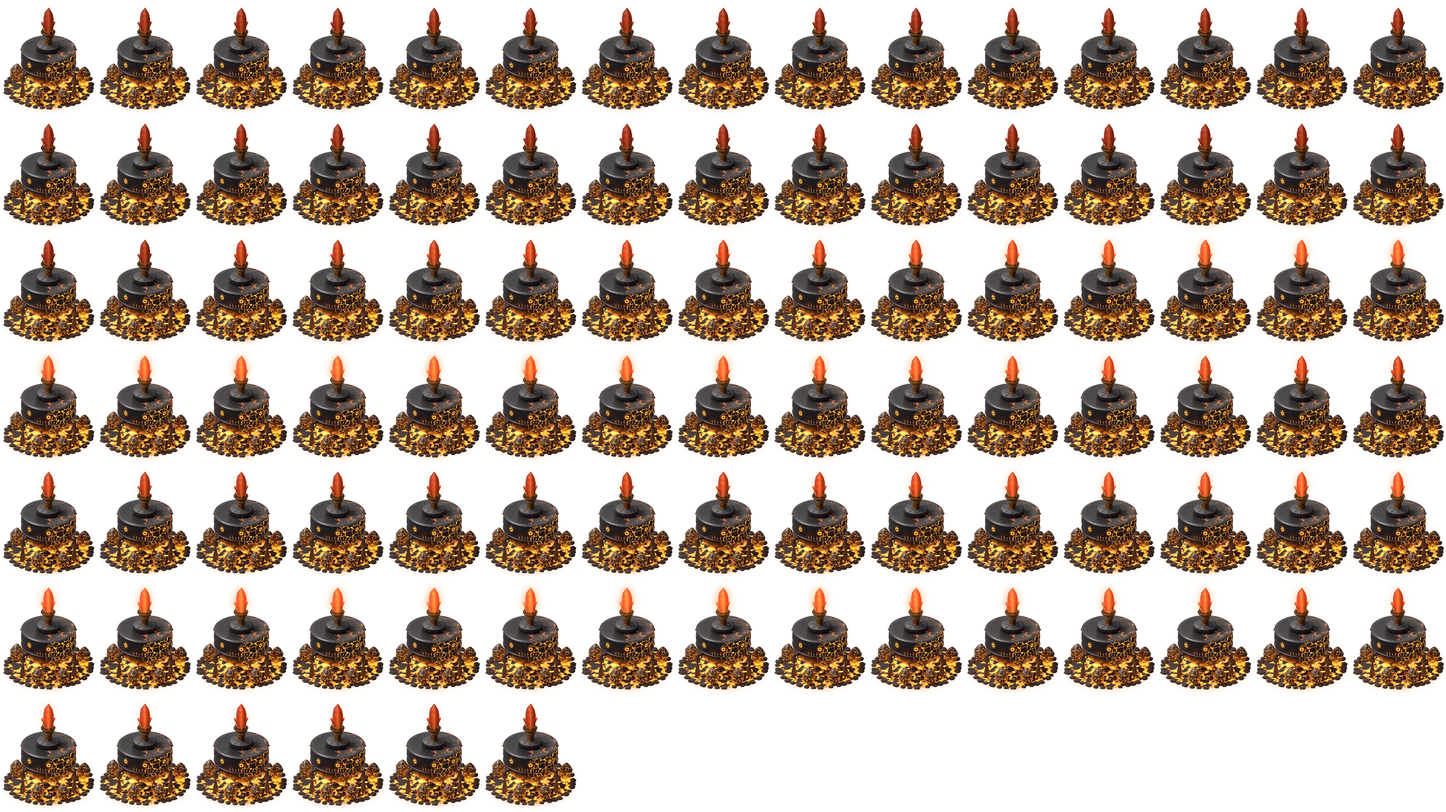
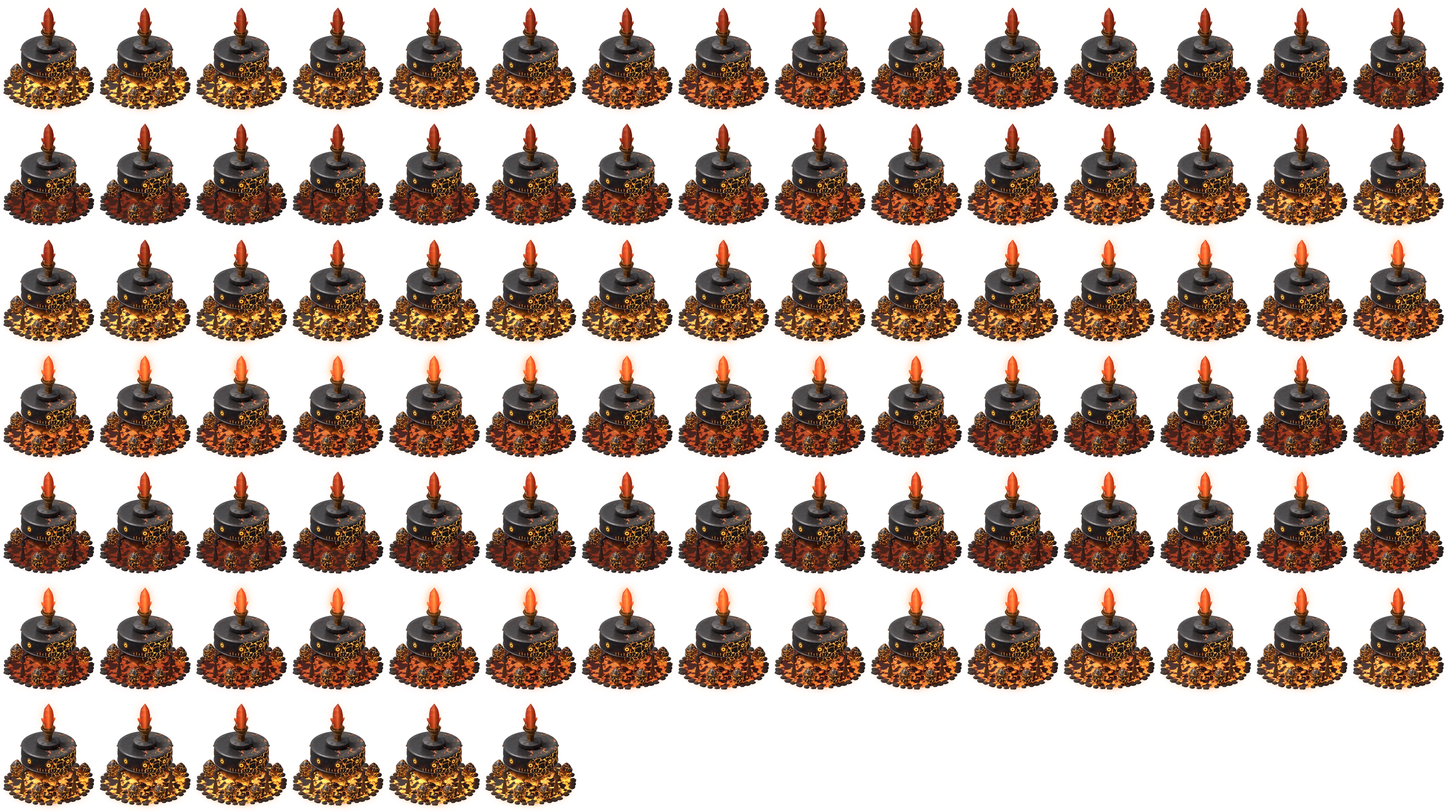
Inferno ICC: the lava pool cycles brownish red to liquid yellow; the crystal no longer blinks idle between hatches
Owner (2 Nov 2026): "i cant see the glow actually. Was hoping it transition
from the ground's brownish red to yellow like liquid magma." New strip from
art/icc-inferno-looks 360101443 (same 96 cells, offsets unchanged): the pool
cools to the Inferno ground's brownish red and heats back to yellow every
4.8 s, its light on the pods, legs, rim and ground following.

Crystal drop-out: a hatchery fed only from the HCC's shared queue (what the
ICC's Hatch tab fills) read as stopping at its monster's end, so it and the
centre went idle until the store's once-a-second tick handed it the next one.
readWork now counts the shared queue when the yard's HCC works (readHcc, split
out of readHatchYard), as it already did a hatchery's own queue.

Tests: buildingWork (shared queue keeps hatcheries and centre working; not
for an HCC being built, wrecked, or with an empty queue); web vitest
src/game/yard src/game/monsters src/ui/monsters 1682 pass; tsc clean.

diff --git a/web/src/game/monsters/hatchPlan.ts b/web/src/game/monsters/hatchPlan.ts
@@ -183,16 +183,29 @@ const readQueue = (raw: unknown, levels: Readonly<Record<string, number>>): Queu
   return queue;
 };
 
-const buildingsOfType = (save: BaseLoadResponse, type: number): [number, BuildingData][] =>
+/** The slices of a save that say whether its HCC works. */
+type HccSave = Pick<BaseLoadResponse, "buildingdata" | "buildinghealthdata">;
+
+const buildingsOfType = (save: HccSave, type: number): [number, BuildingData][] =>
   Object.entries(save.buildingdata ?? {})
     .filter(([, building]) => Number(building?.t) === type)
     .map(([key, building]): [number, BuildingData] => [Number(building.id ?? key), building])
     .filter(([id]) => Number.isFinite(id));
 
-const healthOf = (save: BaseLoadResponse, id: number, building: BuildingData): number | null =>
+const healthOf = (save: HccSave, id: number, building: BuildingData): number | null =>
   finite(save.buildinghealthdata?.[String(id)] ?? building.hp);
 
 const underConstruction = (building: BuildingData): boolean => (finite(building.cB) ?? 0) > 0;
+
+/**
+ * The yard's HCC, once built, and whether it works (hands the shared queue to
+ * the hatcheries): above {@link HCC_MIN_HEALTH}. Null when the yard has none.
+ */
+export const readHcc = (save: HccSave): { readonly id: number; readonly works: boolean } | null => {
+  const found = buildingsOfType(save, HCC_TYPE)[0] ?? null;
+  if (!found || underConstruction(found[1])) return null;
+  return { id: found[0], works: (healthOf(save, found[0], found[1]) ?? Infinity) > HCC_MIN_HEALTH };
+};
 
 /** The hatcheries in service order, as the server orders them: `hid` first, then new ones by id. */
 const serviceOrder = (save: BaseLoadResponse): [number, BuildingData][] => {
@@ -288,14 +301,7 @@ export const readHatchYard = (save: BaseLoadResponse, now: number): HatchYard =>
     };
   });
 
-  const hccBuilding = buildingsOfType(save, HCC_TYPE)[0] ?? null;
-  const hcc =
-    hccBuilding && !underConstruction(hccBuilding[1])
-      ? {
-          id: hccBuilding[0],
-          works: (healthOf(save, hccBuilding[0], hccBuilding[1]) ?? Infinity) > HCC_MIN_HEALTH,
-        }
-      : null;
+  const hcc = readHcc(save);
 
   const housed: Record<string, number> = {};
   for (const [key, raw] of Object.entries(monsters?.housed ?? {})) {

diff --git a/web/src/game/yard/buildingWork.ts b/web/src/game/yard/buildingWork.ts
@@ -1,4 +1,5 @@
 import type { BaseLoadResponse } from "@/api/types";
+import { readHcc } from "@/game/monsters/hatchPlan";
 import {
   harvesterFullAt,
   hatcheryJobs,
@@ -33,8 +34,10 @@ import { animPolicy, WorkKind } from "./yardAnim";
  * - an Academy works while its training runs, the Lab while its research does;
  * - a hatchery works while its monster is at stage 1 — not stage 2, waiting
  *   for housing (`BUILDING13.as:34`) — and past the end of that monster when
- *   more are queued behind it, so it does not stall for the ten seconds the
- *   store waits before asking the server for the next one;
+ *   more are queued behind it, in its own queue or, with a working HCC, in the
+ *   HCC's shared queue, so it does not stall for the second until the store's
+ *   tick hands it the next one, nor the ten seconds the store waits before
+ *   asking the server;
  * - a Hatchery Control Centre works while any hatchery in its yard does (only
  *   the Inferno's Incubator Control Centre shows it: its crystal pulses).
  */
@@ -133,9 +136,13 @@ export const readWork = (save: WorkSave): WorkMap => {
   // Stage 2, waiting for housing, comes back with no end and is left idle.
   const queues = save.monsters?.h ?? [];
   const hatcheries = save.monsters?.hid ?? [];
+  // A working HCC hands its shared queue's head to whichever hatchery ends
+  // next (`hatchPredict.ts`), so a hatchery with an empty queue of its own
+  // still goes straight on to another monster.
+  const shared = readHcc(save)?.works === true && hasQueue(save.monsters?.hcc);
   for (const job of hatcheryJobs(save.monsters, save.storedata, savedAt)) {
     if (job.endsAt === null) continue;
-    const queued = hasQueue(queues[hatcheries.indexOf(Number(job.id))]?.[2]);
+    const queued = shared || hasQueue(queues[hatcheries.indexOf(Number(job.id))]?.[2]);
     const until = queued ? Number.POSITIVE_INFINITY : job.endsAt;
     later(work, job.buildingId, until);
     // A Hatchery Control Centre works while any hatchery in its yard does.

diff --git a/web/src/game/yard/buildingWork.test.ts b/web/src/game/yard/buildingWork.test.ts
@@ -198,6 +198,27 @@ describe("the Hatchery Control Centre (the Inferno's Incubator Control Centre)",
     const save = saveWith(yard, { monsters: monsters([0, 2]) });
     expect(animates(save, 16, 50, SAVED)).toBe(false);
   });
+
+  // The crystal dropped to idle for about a second each time a hatch handed
+  // over to the next: the store's once-a-second tick hands the hatchery the
+  // shared queue's head, and until then neither it nor the centre was working.
+  it("keeps working past a hatch while the shared queue holds monsters", () => {
+    const save = saveWith(yard, { monsters: { ...monsters([1, 1]), hcc: [["C1", 2, 1]] } });
+    const work = readWork(save);
+    expect(work.get(50)).toBe(INF);
+    expect(work.get(13)).toBe(INF);
+    expect(work.get(14)).toBe(INF);
+  });
+
+  it("does not count the shared queue for a centre that cannot hand it out", () => {
+    const shared = { ...monsters([1, 1]), hcc: [["C1", 2, 1]] };
+    const building = saveWith({ ...yard, "50": { id: 50, t: 16, l: 1, cB: 100 } }, { monsters: shared });
+    expect(readWork(building).get(13)).toBe(SAVED + 30);
+    const wrecked = saveWith(yard, { monsters: shared, buildinghealthdata: { "50": 0 } });
+    expect(readWork(wrecked).get(50)).toBe(SAVED + 60);
+    const empty = saveWith(yard, { monsters: { ...monsters([1, 1]), hcc: [["C1", 0, 1]] } });
+    expect(readWork(empty).get(50)).toBe(SAVED + 60);
+  });
 });
 
 describe("the Monster Academy and the Monster Lab", () => {
